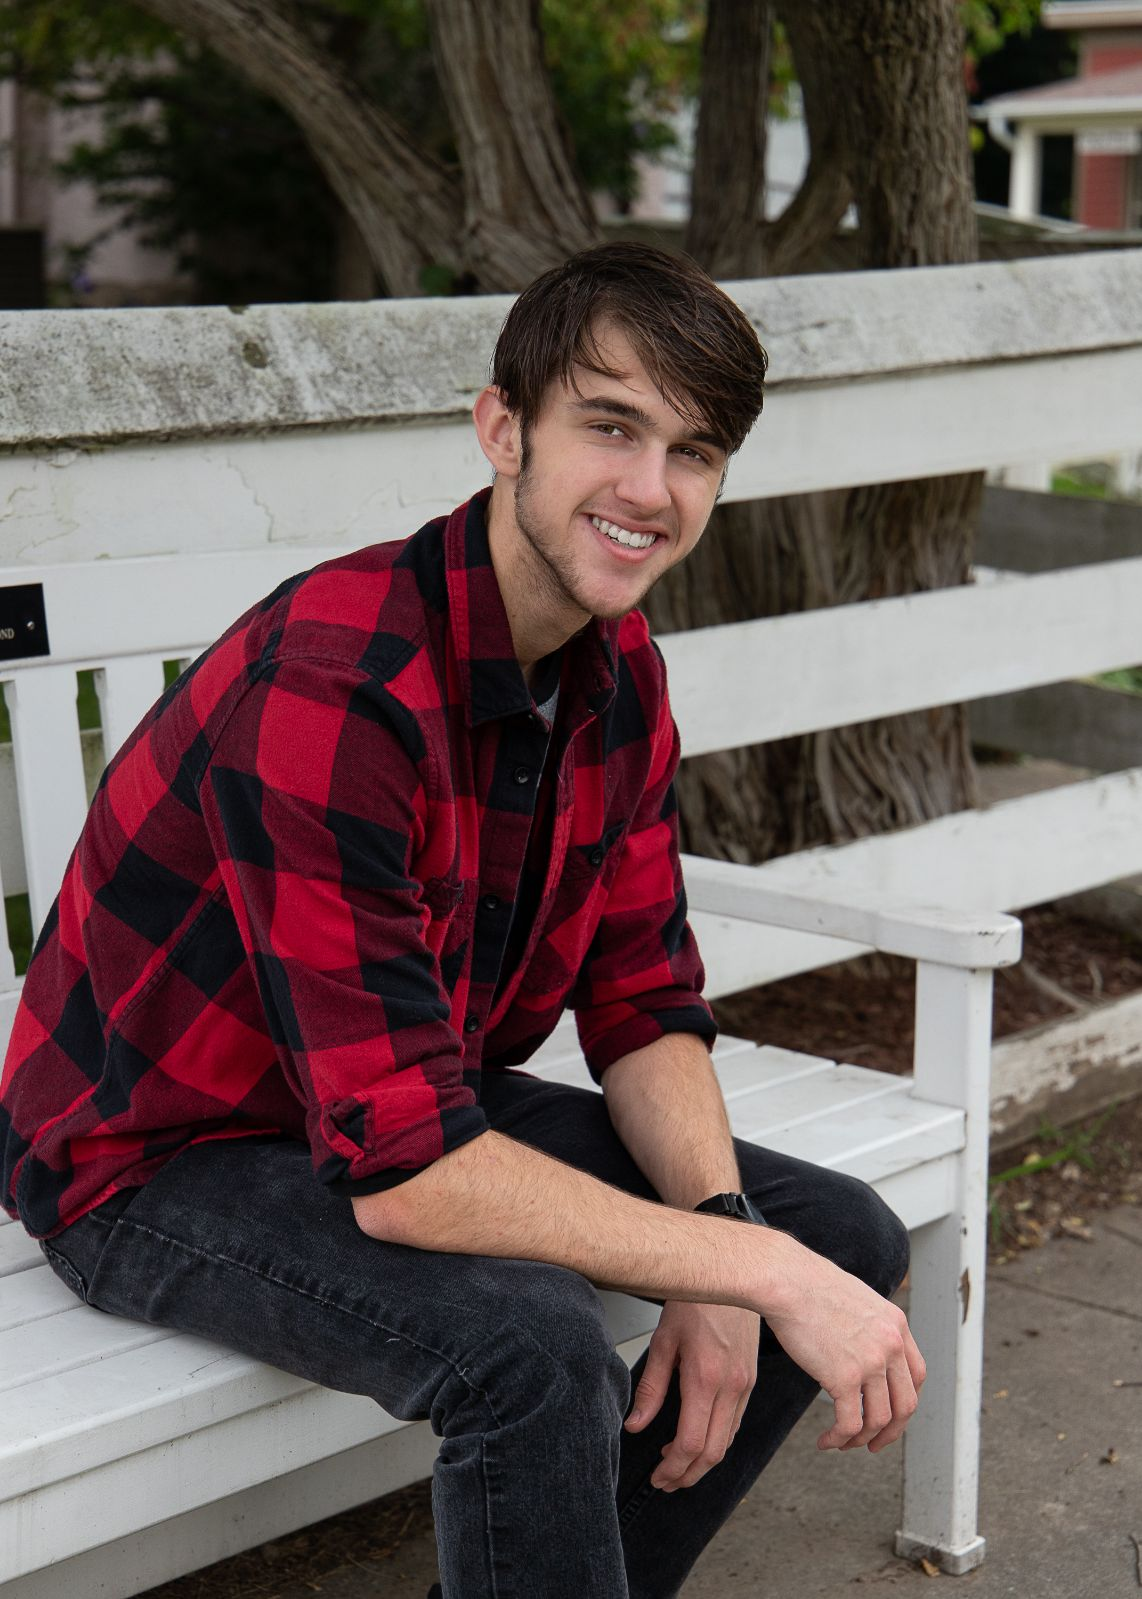
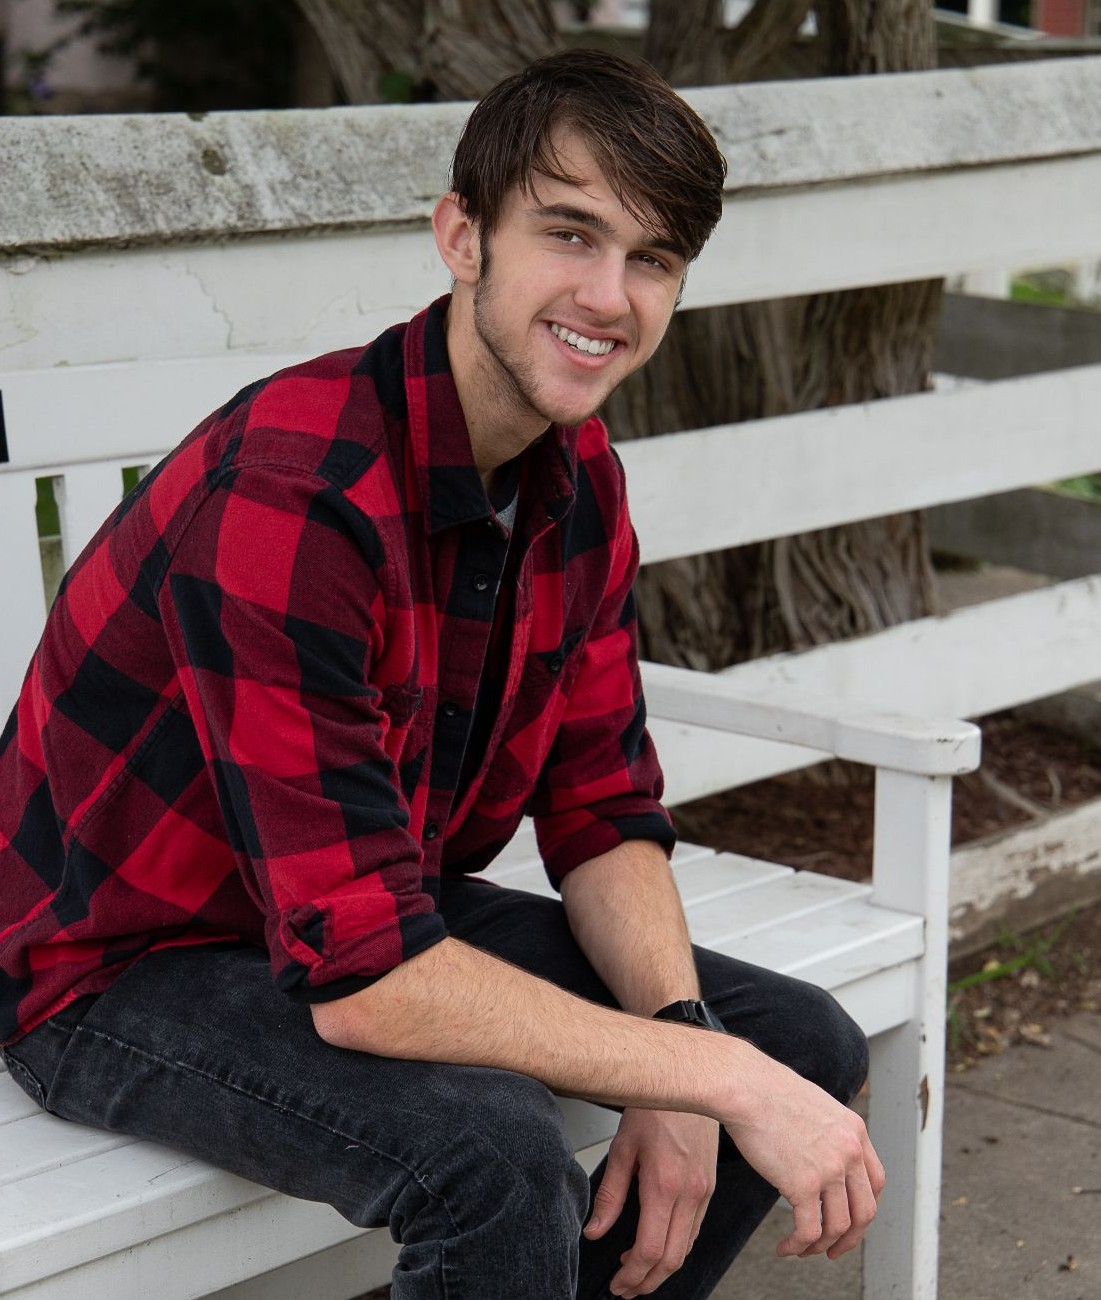
changing around mobile photo profile

diff --git a/app/globals.css b/app/globals.css
@@ -202,7 +202,7 @@ html::-webkit-scrollbar, body::-webkit-scrollbar {
 }
 
 .hero-image {
-    @apply rounded-2xl border-2 w-[clamp(20vw,30vw,30vw)] h-[clamp(25vw,35vw,35vw)] mt-8 border-blue-400 object-cover object-bottom-right;
+    @apply rounded-2xl border-2 w-[clamp(20vw,30vw,30vw)] h-[35vw] mt-8 border-blue-400 object-cover object-bottom-right;
 }
 
 .social-button-text {
@@ -232,7 +232,7 @@ html::-webkit-scrollbar, body::-webkit-scrollbar {
         @apply my-5;
     }
     .hero-image {
-        @apply opacity-100 m-0 w-full h-[40vh] object-top;
+        @apply opacity-100 m-0 min-w-full h-[45vh] object-top;
     }
 }
 
